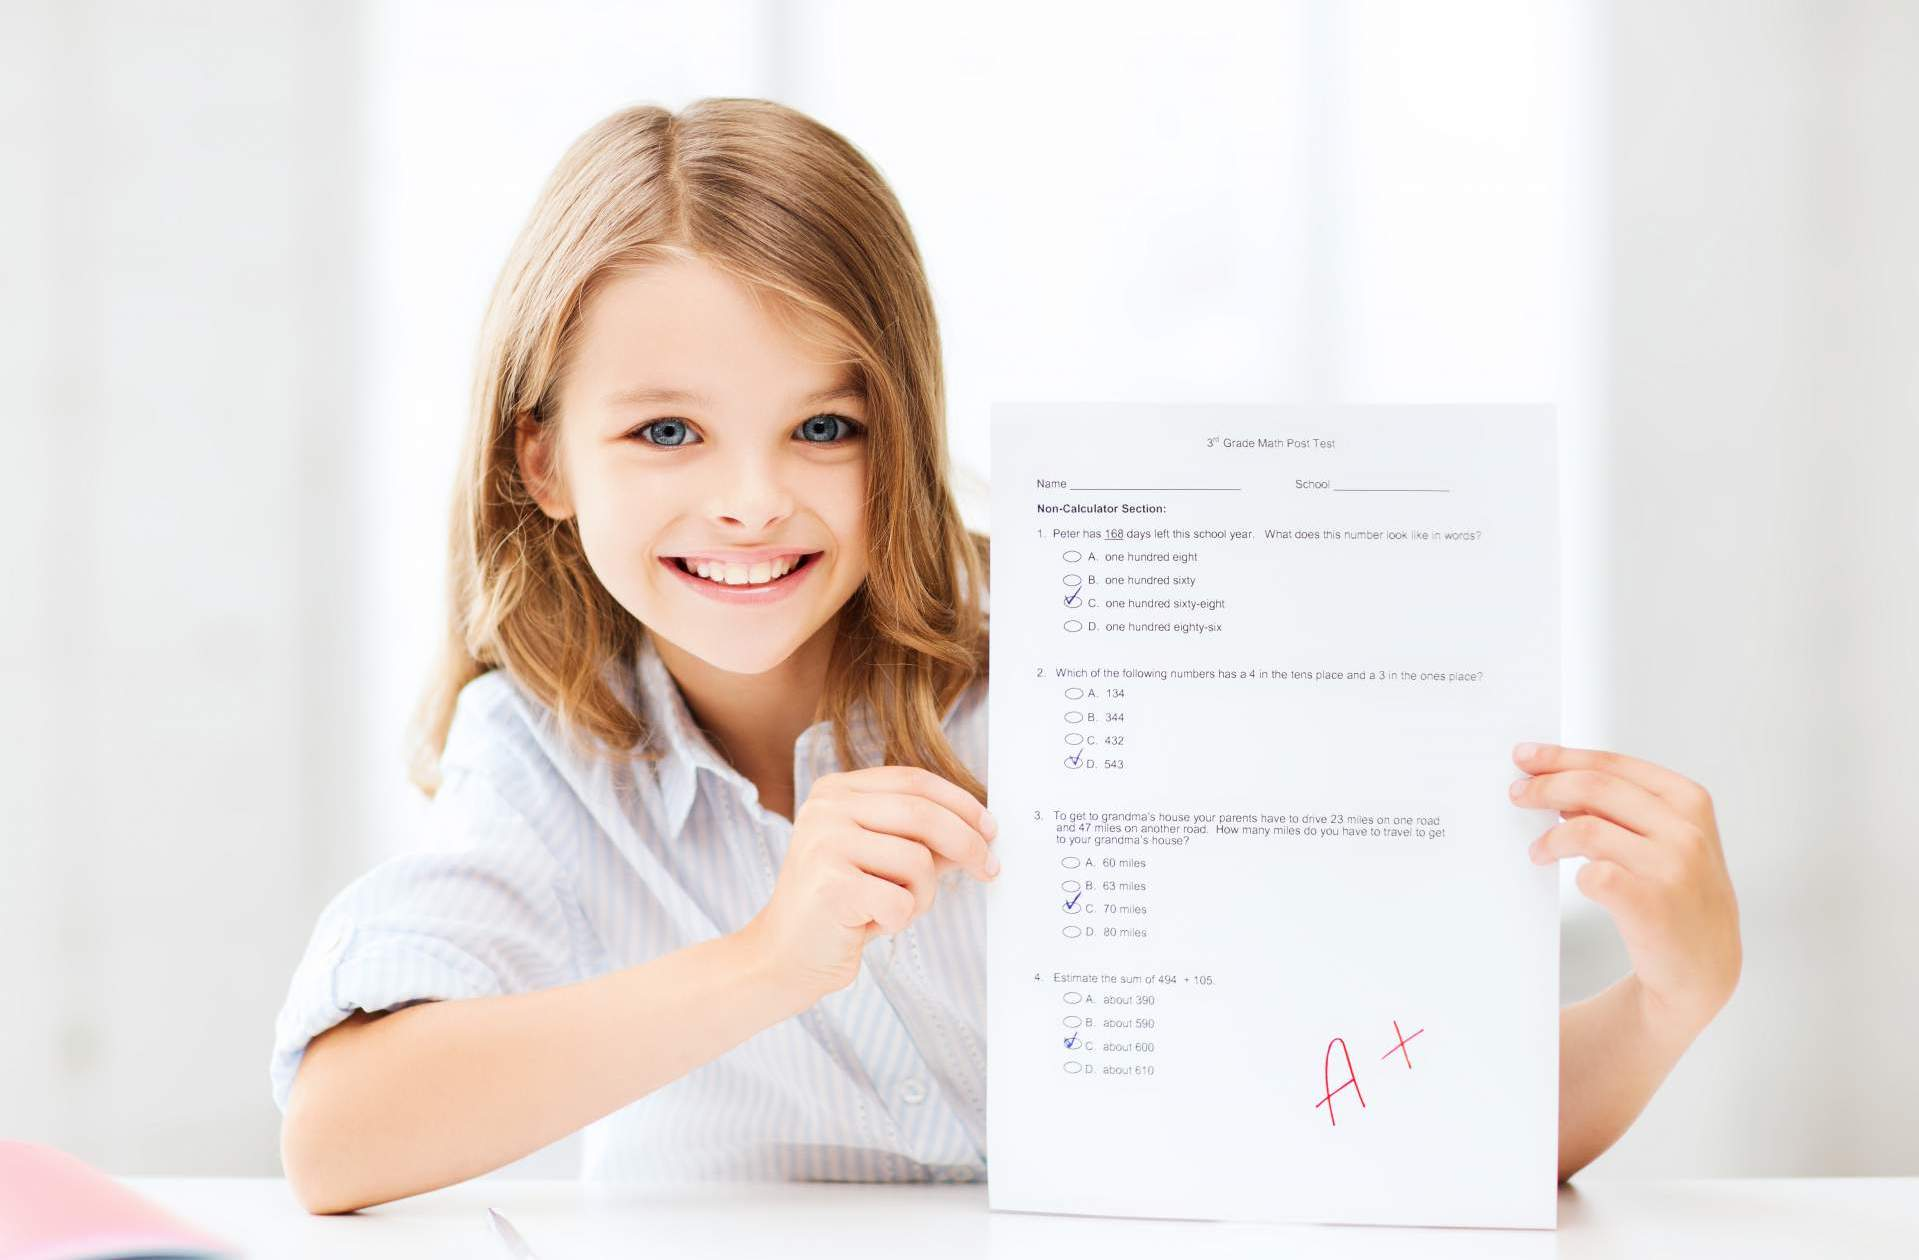
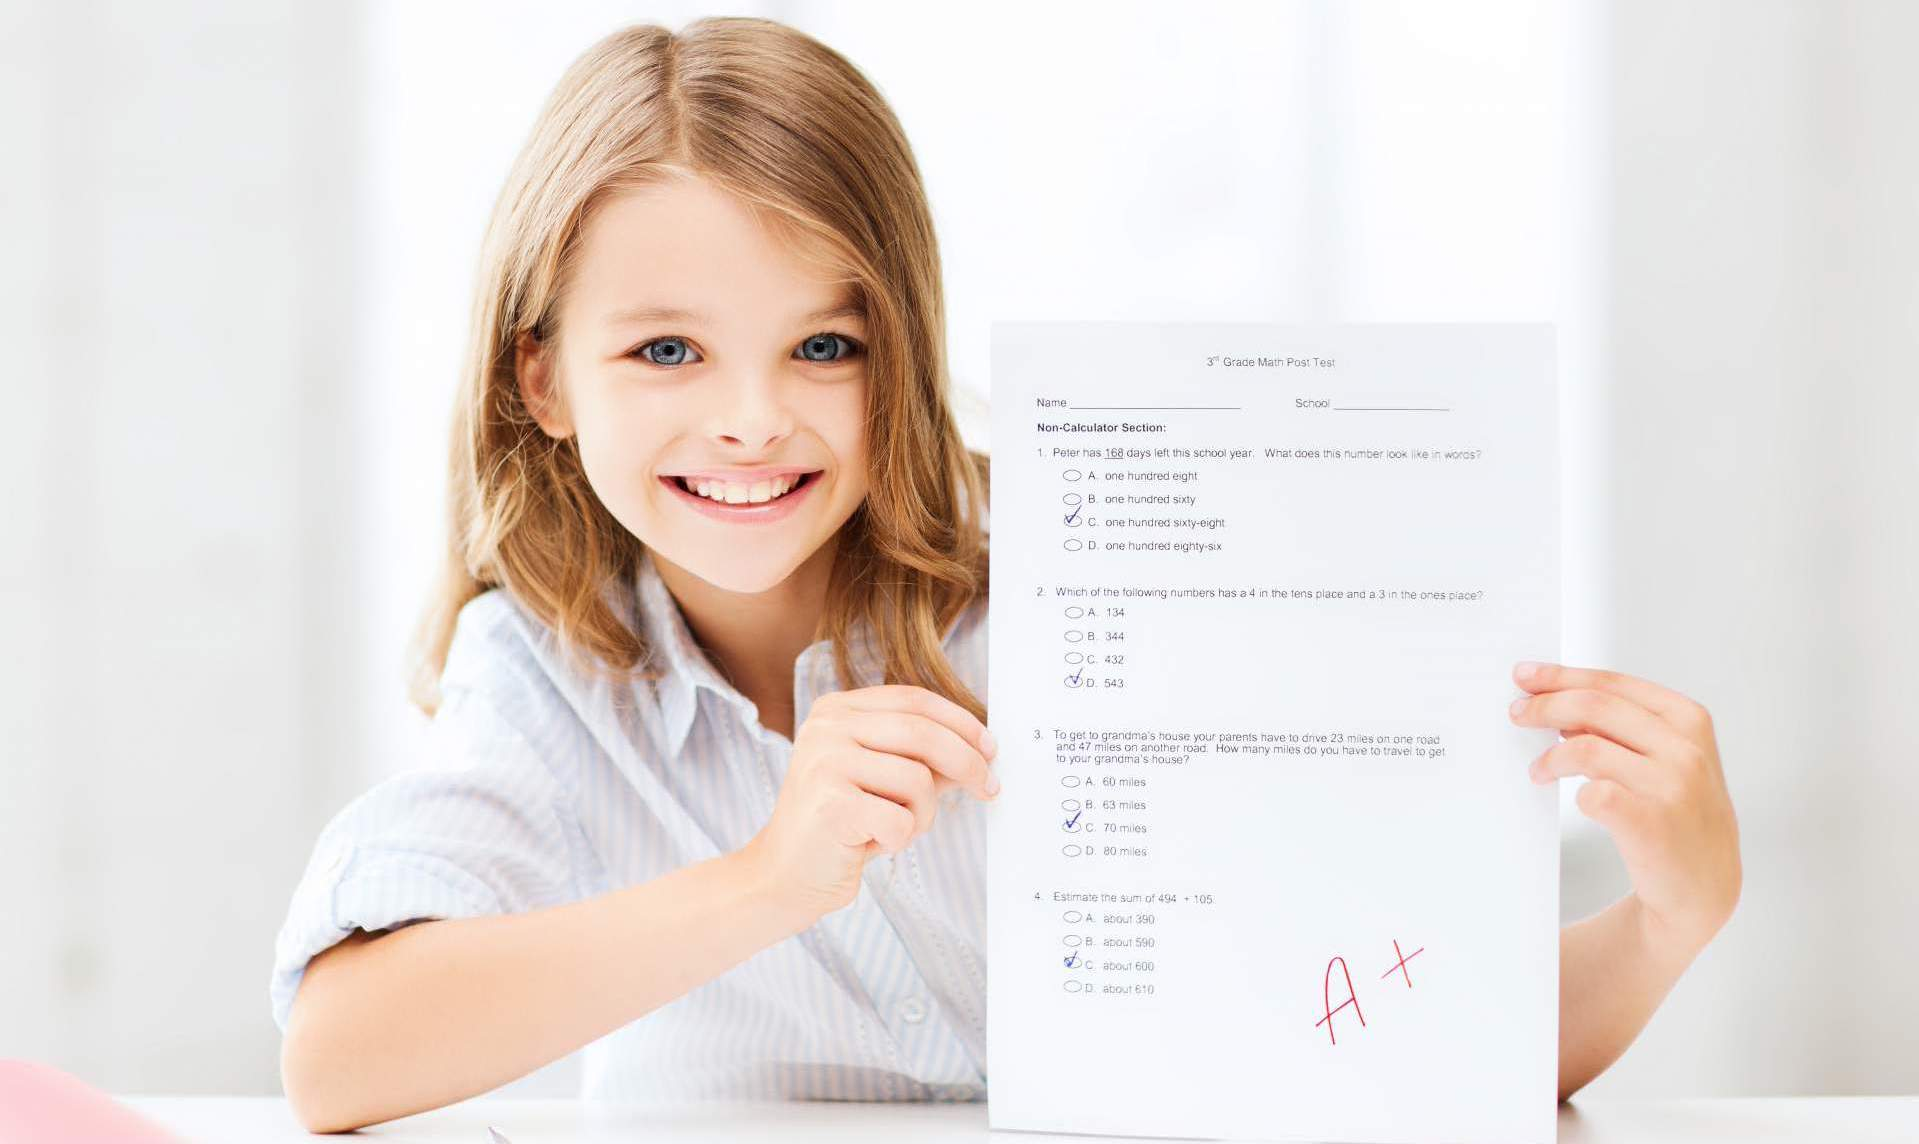
Dev updates
Adjusted background image posiition for index jumbotron.
Increased overall body font to 16px from 15px.
Nav adjustment: Homework Help to top of Programs drop-down

diff --git a/_site/index.html b/_site/index.html
@@ -202,9 +202,9 @@
                   <li class="nav-item dropdown ">
                     <a href="#" class="nav-link dropdown-toggle" id="second-dropdown" data-toggle="dropdown" aria-haspopup="true" aria-expanded="false">Programs</a>
                     <ul class="dropdown-menu" aria-labelledby="second-dropdown">
+                      <li ><a href="/programs/homework-help.html">Homework Help</a></li>
                       <li ><a href="/programs/easy-as-pi.html">"Easy as Pi" Program</a></li>
                       <li ><a href="/programs/phone-private-tutoring.html">Phone &amp; Private Tutoring</a></li>
-                      <li ><a href="/programs/homework-help.html">Homework Help</a></li>
                       <li ><a href="#">Summer Math &amp; Science Camps</a></li>
                     </ul>
                   </li>
@@ -257,7 +257,7 @@
           <li class="text-center" data-transition="random" data-slotamount="default" data-masterspeed="default" data-title="Las Vegas Math Tutoring">
 
           <!-- main image -->
-          <img src="/images/a_plus_math_test.jpg" alt="slidebg1" data-bgposition="center bottom" data-kenburns="on" data-duration="30000" data-ease="Linear.easeNone" data-scalestart="100" data-scaleend="120" data-rotatestart="0" data-rotateend="0" data-offsetstart="0 0" data-offsetend="0 0" data-bgparallax="10" class="rev-slidebg" data-no-retina>
+          <img src="/images/a_plus_math_test.jpg" alt="slidebg1" data-bgposition="center center" data-kenburns="on" data-duration="30000" data-ease="Linear.easeNone" data-scalestart="100" data-scaleend="120" data-rotatestart="0" data-rotateend="0" data-offsetstart="0 0" data-offsetend="0 0" data-bgparallax="10" class="rev-slidebg" data-no-retina>
 
           <!-- Transparent Background -->
           <div class="tp-caption dark-translucent-bg"

diff --git a/_layouts/home.html b/_layouts/home.html
@@ -19,7 +19,7 @@ layout: default
           <li class="text-center" data-transition="random" data-slotamount="default" data-masterspeed="default" data-title="Las Vegas Math Tutoring">
 
           <!-- main image -->
-          <img src="/images/a_plus_math_test.jpg" alt="slidebg1" data-bgposition="center bottom" data-kenburns="on" data-duration="30000" data-ease="Linear.easeNone" data-scalestart="100" data-scaleend="120" data-rotatestart="0" data-rotateend="0" data-offsetstart="0 0" data-offsetend="0 0" data-bgparallax="10" class="rev-slidebg" data-no-retina>
+          <img src="/images/a_plus_math_test.jpg" alt="slidebg1" data-bgposition="center center" data-kenburns="on" data-duration="30000" data-ease="Linear.easeNone" data-scalestart="100" data-scaleend="120" data-rotatestart="0" data-rotateend="0" data-offsetstart="0 0" data-offsetend="0 0" data-bgparallax="10" class="rev-slidebg" data-no-retina>
 
           <!-- Transparent Background -->
           <div class="tp-caption dark-translucent-bg"

diff --git a/_includes/header.html b/_includes/header.html
@@ -133,9 +133,9 @@
                   <li class="nav-item dropdown ">
                     <a href="#" class="nav-link dropdown-toggle" id="second-dropdown" data-toggle="dropdown" aria-haspopup="true" aria-expanded="false">Programs</a>
                     <ul class="dropdown-menu" aria-labelledby="second-dropdown">
+                      <li ><a href="/programs/homework-help.html">Homework Help</a></li>
                       <li ><a href="/programs/easy-as-pi.html">"Easy as Pi" Program</a></li>
                       <li ><a href="/programs/phone-private-tutoring.html">Phone &amp; Private Tutoring</a></li>
-                      <li ><a href="/programs/homework-help.html">Homework Help</a></li>
                       <li ><a href="#">Summer Math &amp; Science Camps</a></li>
                     </ul>
                   </li>

diff --git a/_site/404.html b/_site/404.html
@@ -202,9 +202,9 @@
                   <li class="nav-item dropdown ">
                     <a href="#" class="nav-link dropdown-toggle" id="second-dropdown" data-toggle="dropdown" aria-haspopup="true" aria-expanded="false">Programs</a>
                     <ul class="dropdown-menu" aria-labelledby="second-dropdown">
+                      <li ><a href="/programs/homework-help.html">Homework Help</a></li>
                       <li ><a href="/programs/easy-as-pi.html">"Easy as Pi" Program</a></li>
                       <li ><a href="/programs/phone-private-tutoring.html">Phone &amp; Private Tutoring</a></li>
-                      <li ><a href="/programs/homework-help.html">Homework Help</a></li>
                       <li ><a href="#">Summer Math &amp; Science Camps</a></li>
                     </ul>
                   </li>

diff --git a/_site/about/index.html b/_site/about/index.html
@@ -202,9 +202,9 @@
                   <li class="nav-item dropdown ">
                     <a href="#" class="nav-link dropdown-toggle" id="second-dropdown" data-toggle="dropdown" aria-haspopup="true" aria-expanded="false">Programs</a>
                     <ul class="dropdown-menu" aria-labelledby="second-dropdown">
+                      <li ><a href="/programs/homework-help.html">Homework Help</a></li>
                       <li ><a href="/programs/easy-as-pi.html">"Easy as Pi" Program</a></li>
                       <li ><a href="/programs/phone-private-tutoring.html">Phone &amp; Private Tutoring</a></li>
-                      <li ><a href="/programs/homework-help.html">Homework Help</a></li>
                       <li ><a href="#">Summer Math &amp; Science Camps</a></li>
                     </ul>
                   </li>

diff --git a/_site/math_tutors/dayleen_taylor.html b/_site/math_tutors/dayleen_taylor.html
@@ -202,9 +202,9 @@
                   <li class="nav-item dropdown ">
                     <a href="#" class="nav-link dropdown-toggle" id="second-dropdown" data-toggle="dropdown" aria-haspopup="true" aria-expanded="false">Programs</a>
                     <ul class="dropdown-menu" aria-labelledby="second-dropdown">
+                      <li ><a href="/programs/homework-help.html">Homework Help</a></li>
                       <li ><a href="/programs/easy-as-pi.html">"Easy as Pi" Program</a></li>
                       <li ><a href="/programs/phone-private-tutoring.html">Phone &amp; Private Tutoring</a></li>
-                      <li ><a href="/programs/homework-help.html">Homework Help</a></li>
                       <li ><a href="#">Summer Math &amp; Science Camps</a></li>
                     </ul>
                   </li>

diff --git a/_site/math_tutors/lainey_waldman.html b/_site/math_tutors/lainey_waldman.html
@@ -202,9 +202,9 @@
                   <li class="nav-item dropdown ">
                     <a href="#" class="nav-link dropdown-toggle" id="second-dropdown" data-toggle="dropdown" aria-haspopup="true" aria-expanded="false">Programs</a>
                     <ul class="dropdown-menu" aria-labelledby="second-dropdown">
+                      <li ><a href="/programs/homework-help.html">Homework Help</a></li>
                       <li ><a href="/programs/easy-as-pi.html">"Easy as Pi" Program</a></li>
                       <li ><a href="/programs/phone-private-tutoring.html">Phone &amp; Private Tutoring</a></li>
-                      <li ><a href="/programs/homework-help.html">Homework Help</a></li>
                       <li ><a href="#">Summer Math &amp; Science Camps</a></li>
                     </ul>
                   </li>

diff --git a/_site/math_tutors/makenzie_edwards.html b/_site/math_tutors/makenzie_edwards.html
@@ -202,9 +202,9 @@
                   <li class="nav-item dropdown ">
                     <a href="#" class="nav-link dropdown-toggle" id="second-dropdown" data-toggle="dropdown" aria-haspopup="true" aria-expanded="false">Programs</a>
                     <ul class="dropdown-menu" aria-labelledby="second-dropdown">
+                      <li ><a href="/programs/homework-help.html">Homework Help</a></li>
                       <li ><a href="/programs/easy-as-pi.html">"Easy as Pi" Program</a></li>
                       <li ><a href="/programs/phone-private-tutoring.html">Phone &amp; Private Tutoring</a></li>
-                      <li ><a href="/programs/homework-help.html">Homework Help</a></li>
                       <li ><a href="#">Summer Math &amp; Science Camps</a></li>
                     </ul>
                   </li>

diff --git a/_site/math_tutors/steve_giles.html b/_site/math_tutors/steve_giles.html
@@ -202,9 +202,9 @@
                   <li class="nav-item dropdown ">
                     <a href="#" class="nav-link dropdown-toggle" id="second-dropdown" data-toggle="dropdown" aria-haspopup="true" aria-expanded="false">Programs</a>
                     <ul class="dropdown-menu" aria-labelledby="second-dropdown">
+                      <li ><a href="/programs/homework-help.html">Homework Help</a></li>
                       <li ><a href="/programs/easy-as-pi.html">"Easy as Pi" Program</a></li>
                       <li ><a href="/programs/phone-private-tutoring.html">Phone &amp; Private Tutoring</a></li>
-                      <li ><a href="/programs/homework-help.html">Homework Help</a></li>
                       <li ><a href="#">Summer Math &amp; Science Camps</a></li>
                     </ul>
                   </li>

diff --git a/_site/math_tutors/tiffany_taylor.html b/_site/math_tutors/tiffany_taylor.html
@@ -202,9 +202,9 @@
                   <li class="nav-item dropdown ">
                     <a href="#" class="nav-link dropdown-toggle" id="second-dropdown" data-toggle="dropdown" aria-haspopup="true" aria-expanded="false">Programs</a>
                     <ul class="dropdown-menu" aria-labelledby="second-dropdown">
+                      <li ><a href="/programs/homework-help.html">Homework Help</a></li>
                       <li ><a href="/programs/easy-as-pi.html">"Easy as Pi" Program</a></li>
                       <li ><a href="/programs/phone-private-tutoring.html">Phone &amp; Private Tutoring</a></li>
-                      <li ><a href="/programs/homework-help.html">Homework Help</a></li>
                       <li ><a href="#">Summer Math &amp; Science Camps</a></li>
                     </ul>
                   </li>

diff --git a/_site/page.html b/_site/page.html
@@ -202,9 +202,9 @@
                   <li class="nav-item dropdown ">
                     <a href="#" class="nav-link dropdown-toggle" id="second-dropdown" data-toggle="dropdown" aria-haspopup="true" aria-expanded="false">Programs</a>
                     <ul class="dropdown-menu" aria-labelledby="second-dropdown">
+                      <li ><a href="/programs/homework-help.html">Homework Help</a></li>
                       <li ><a href="/programs/easy-as-pi.html">"Easy as Pi" Program</a></li>
                       <li ><a href="/programs/phone-private-tutoring.html">Phone &amp; Private Tutoring</a></li>
-                      <li ><a href="/programs/homework-help.html">Homework Help</a></li>
                       <li ><a href="#">Summer Math &amp; Science Camps</a></li>
                     </ul>
                   </li>

diff --git a/_site/programs/easy-as-pi.html b/_site/programs/easy-as-pi.html
@@ -202,9 +202,9 @@
                   <li class="nav-item dropdown ">
                     <a href="#" class="nav-link dropdown-toggle" id="second-dropdown" data-toggle="dropdown" aria-haspopup="true" aria-expanded="false">Programs</a>
                     <ul class="dropdown-menu" aria-labelledby="second-dropdown">
+                      <li ><a href="/programs/homework-help.html">Homework Help</a></li>
                       <li ><a href="/programs/easy-as-pi.html">"Easy as Pi" Program</a></li>
                       <li ><a href="/programs/phone-private-tutoring.html">Phone &amp; Private Tutoring</a></li>
-                      <li ><a href="/programs/homework-help.html">Homework Help</a></li>
                       <li ><a href="#">Summer Math &amp; Science Camps</a></li>
                     </ul>
                   </li>
